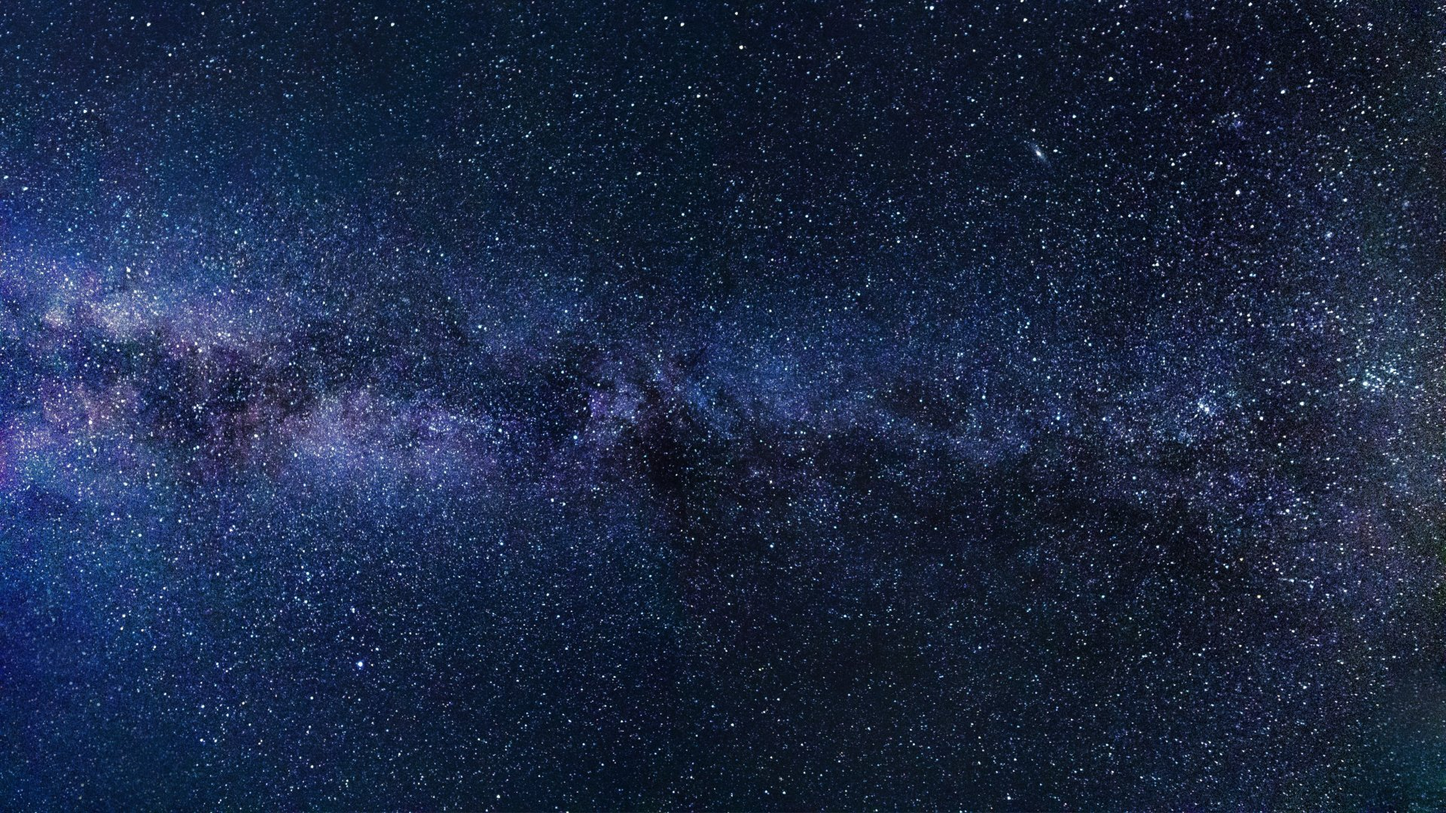
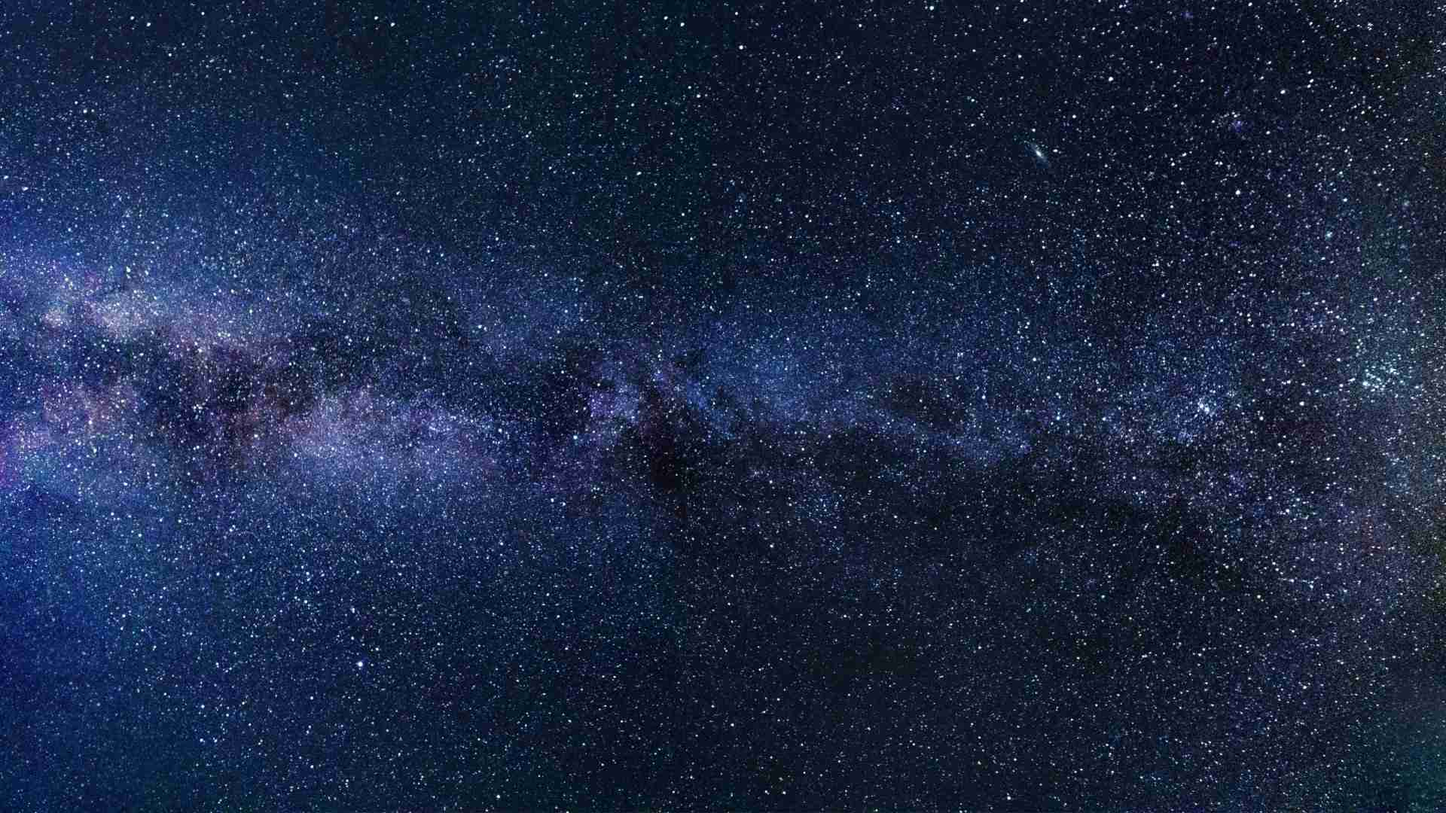
Added redux persist Created Header, NavBar and Profile components from App component Reduced images quality

diff --git a/src/components/NavBar.tsx b/src/components/NavBar.tsx
@@ -1,0 +1,48 @@
+import React, { useState } from "react";
+
+function NavBar() {
+  const [active, setActive] = useState<string>("hero");
+
+  const createClassName = (name: string): string => {
+    const navLink = "nav-link";
+    const activeLink = navLink + " active";
+    return active == name ? activeLink : navLink;
+  };
+
+  const handleClick = (name: string, event: React.MouseEvent) => {
+    event.preventDefault();
+    const element = document.querySelector(name) as HTMLElement;
+    window.scrollTo({
+      top: element.offsetTop,
+      behavior: "smooth",
+    });
+    setActive(name);
+  };
+
+  return (
+    <nav id="navbar" className="nav-menu navbar">
+      <ul>
+        <li>
+          <a
+            href="#hero"
+            className={createClassName("#hero")}
+            onClick={(event) => handleClick("#hero", event)}
+          >
+            <i className="bx bx-home"></i> <span>Home</span>
+          </a>
+        </li>
+        <li>
+          <a
+            href="#about"
+            className={createClassName("#about")}
+            onClick={(event) => handleClick("#about", event)}
+          >
+            <i className="bx bx-user"></i> <span>About</span>
+          </a>
+        </li>
+      </ul>
+    </nav>
+  );
+}
+
+export default NavBar;

diff --git a/src/app/store.ts b/src/app/store.ts
@@ -1,11 +1,45 @@
-import { configureStore, ThunkAction, Action } from "@reduxjs/toolkit";
+import {
+  configureStore,
+  ThunkAction,
+  Action,
+  combineReducers,
+} from "@reduxjs/toolkit";
+import {
+  persistStore,
+  persistReducer,
+  FLUSH,
+  REHYDRATE,
+  PAUSE,
+  PERSIST,
+  PURGE,
+  REGISTER,
+} from "redux-persist";
+import storage from "redux-persist/lib/storage/session";
 import counterReducer from "../features/counter/counterSlice";
 
-export const store = configureStore({
-  reducer: {
-    counter: counterReducer,
-  },
+const rootReducer = combineReducers({
+  counter: counterReducer,
 });
+
+const persistConfig = {
+  key: "root",
+  storage: storage,
+  whitelist: [],
+};
+
+const persistedReducer = persistReducer(persistConfig, rootReducer);
+
+export const store = configureStore({
+  reducer: persistedReducer,
+  middleware: (getDefaultMiddleware) =>
+    getDefaultMiddleware({
+      serializableCheck: {
+        ignoredActions: [FLUSH, REHYDRATE, PAUSE, PERSIST, PURGE, REGISTER],
+      },
+    }),
+});
+
+export const persistor = persistStore(store);
 
 export type AppDispatch = typeof store.dispatch;
 export type RootState = ReturnType<typeof store.getState>;

diff --git a/src/index.tsx b/src/index.tsx
@@ -1,8 +1,9 @@
 import React from "react";
 import { createRoot } from "react-dom/client";
 import { Provider } from "react-redux";
-import { store } from "./app/store";
-import App from "./App";
+import { store, persistor } from "./app/store";
+import { PersistGate } from "redux-persist/integration/react";
+import App from "./components/App";
 import reportWebVitals from "./reportWebVitals";
 import "./font.css";
 import "bootstrap/dist/css/bootstrap.css";
@@ -15,7 +16,9 @@ const root = createRoot(container);
 root.render(
   <React.StrictMode>
     <Provider store={store}>
-      <App />
+      <PersistGate loading={null} persistor={persistor}>
+        <App />
+      </PersistGate>
     </Provider>
   </React.StrictMode>
 );

diff --git a/src/components/App.tsx b/src/components/App.tsx
@@ -1,0 +1,31 @@
+import Header from "./Header";
+
+function App() {
+  return (
+    <>
+      <Header />
+
+      <section
+        id="hero"
+        className="d-flex flex-column justify-content-center align-items-center"
+      >
+        <div className="hero-container">
+          <h1>Volkan Saydam</h1>
+          <p>I'm Web Developer</p>
+        </div>
+      </section>
+
+      <main id="main">
+        <section id="about" className="about">
+          <div className="container">
+            <div className="section-title">
+              <h2>About</h2>
+            </div>
+          </div>
+        </section>
+      </main>
+    </>
+  );
+}
+
+export default App;

diff --git a/src/components/Profile.tsx b/src/components/Profile.tsx
@@ -1,0 +1,23 @@
+import img from "./img-1.jpg";
+
+function Profile() {
+  return (
+    <div className="profile">
+      <img src={img} alt="" className="img-fluid rounded-circle" />
+      <h1 className="text-light">Volkan Saydam</h1>
+      <div className="social-links mt-3 text-center">
+        <a href="#" className="linkedin">
+          <i className="bx bxl-linkedin"></i>
+        </a>
+        <a href="#" className="linkedin">
+          <i className="bx bxl-github"></i>
+        </a>
+        <a href="#" className="linkedin">
+          <i className="bx bxl-stack-overflow"></i>
+        </a>
+      </div>
+    </div>
+  );
+}
+
+export default Profile;

diff --git a/src/components/Header.tsx b/src/components/Header.tsx
@@ -1,0 +1,15 @@
+import NavBar from "./NavBar";
+import Profile from "./Profile";
+
+function Header() {
+  return (
+    <header id="header">
+      <div className="d-flex flex-column">
+        <Profile />
+        <NavBar />
+      </div>
+    </header>
+  );
+}
+
+export default Header;

diff --git a/src/components/App.test.tsx b/src/components/App.test.tsx
@@ -1,7 +1,7 @@
 import React from "react";
 import { render } from "@testing-library/react";
 import { Provider } from "react-redux";
-import { store } from "./app/store";
+import { store } from "../app/store";
 import App from "./App";
 
 // test("renders learn react link1 ", () => {
